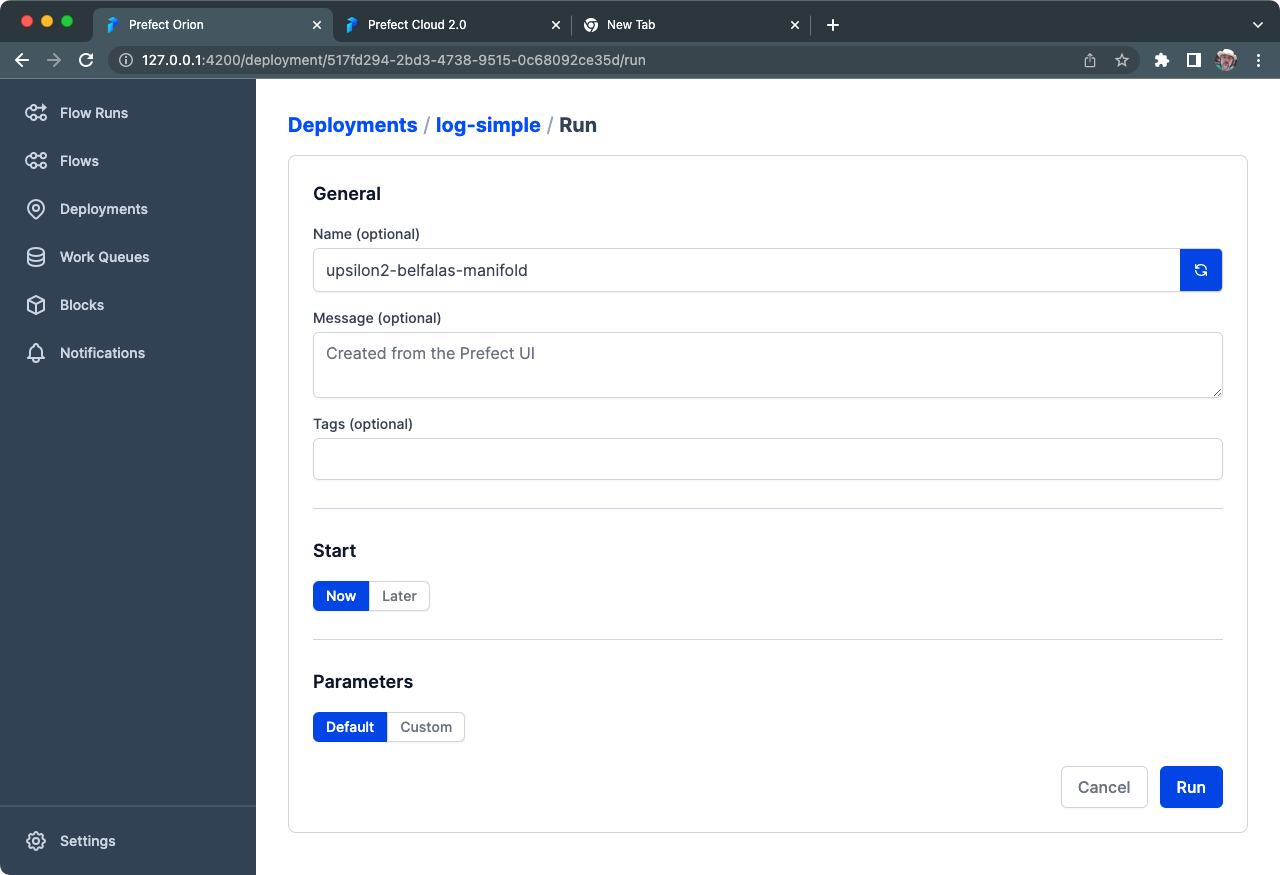
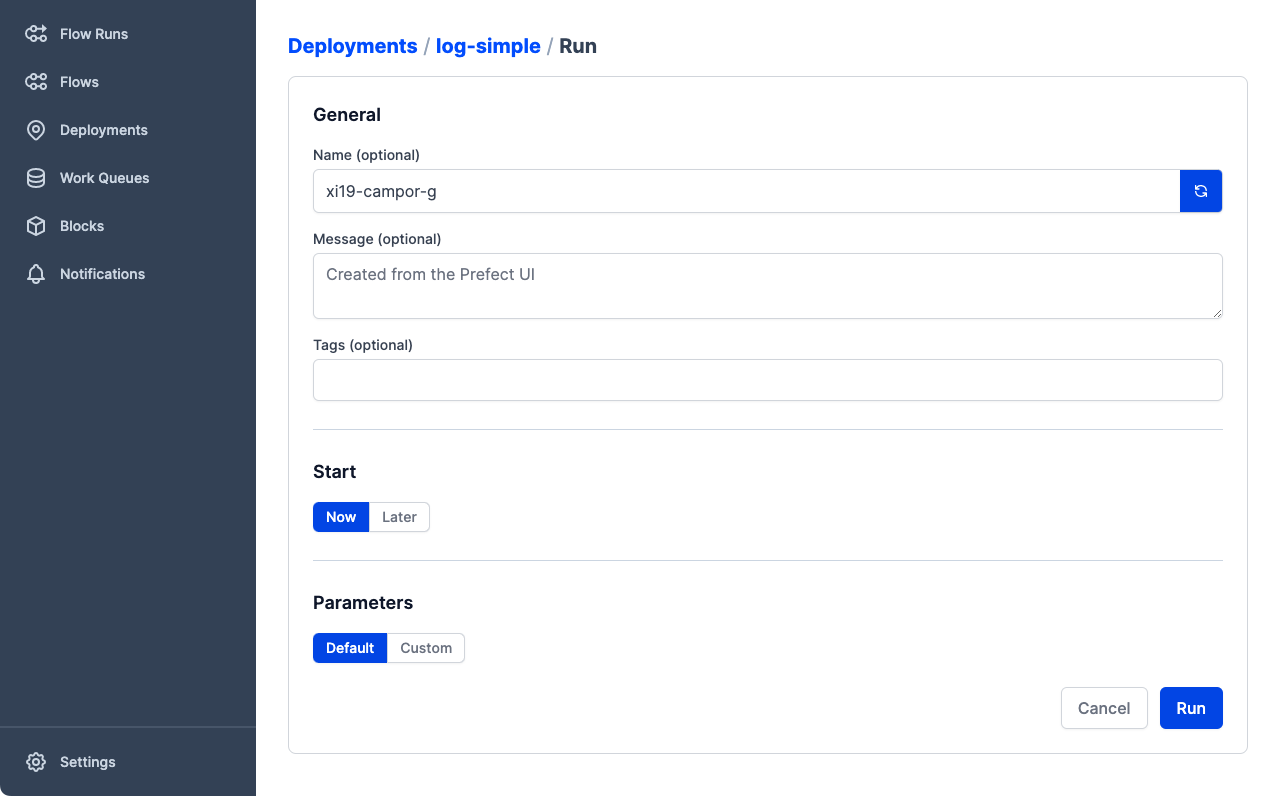
Fix agent output and screenshots in Deployment tutorial (#6715)
* Update agent output

* Fix flow run name in screenshots

diff --git a/docs/tutorials/deployments.md b/docs/tutorials/deployments.md
@@ -471,19 +471,27 @@ If you switch over to the terminal session where your agent is running, you'll s
 
 <div class="terminal">
 ```bash
-16:18:28.281 | INFO    | prefect.agent - Submitting flow run 'b0ba3195-912d-4a2f-8645-d939747655c3'
-16:18:28.340 | INFO    | prefect.infrastructure.process - Opening process 'talented-jackdaw'...
-16:18:28.349 | INFO    | prefect.agent - Completed submission of flow run 'b0ba3195-912d-4a2f-8645-d939747655c3'
-...
-16:18:30.282 | INFO    | Flow run 'talented-jackdaw' - Created task run 'log_task-99465d2b-0' for task 'log_task'
-16:18:30.283 | INFO    | Flow run 'talented-jackdaw' - Executing 'log_task-99465d2b-0' immediately...
-16:18:30.325 | DEBUG   | Task run 'log_task-99465d2b-0' - Beginning execution...
-16:18:30.325 | INFO    | Task run 'log_task-99465d2b-0' - Hello Marvin!
-16:18:30.325 | INFO    | Task run 'log_task-99465d2b-0' - Prefect Version = 2.3.1 🚀
-16:18:30.325 | DEBUG   | Task run 'log_task-99465d2b-0' - hello from another file
-16:18:30.354 | INFO    | Task run 'log_task-99465d2b-0' - Finished in state Completed()
-16:18:30.432 | INFO    | Flow run 'talented-jackdaw' - Finished in state Completed('All states completed.')
-16:18:30.654 | INFO    | prefect.infrastructure.process - Process 'talented-jackdaw' exited cleanly.
+12:34:34.000 | INFO    | prefect.agent - Submitting flow run '8476a5e7-cb8f-4fa0-911b-883ec289dccc'
+12:34:34.060 | INFO    | prefect.infrastructure.process - Opening process 'daffodil-vole'...
+12:34:34.068 | INFO    | prefect.agent - Completed submission of flow run '8476a5e7-cb8f-4fa0-911b-883ec289dccc'
+12:34:35.619 | DEBUG   | prefect.client - Connecting to API at http://127.0.0.1:4200/api/
+12:34:35.657 | DEBUG   | Flow run 'daffodil-vole' - Loading flow for deployment 'log-simple'...
+12:34:35.681 | DEBUG   | Flow run 'daffodil-vole' - Starting 'ConcurrentTaskRunner'; submitted tasks will be run concurrently...
+12:34:35.681 | DEBUG   | prefect.task_runner.concurrent - Starting task runner...
+12:34:35.688 | DEBUG   | prefect.client - Connecting to API at http://127.0.0.1:4200/api/
+12:34:35.797 | DEBUG   | Flow run 'daffodil-vole' - Executing flow 'log-flow' for flow run 'daffodil-vole'...
+12:34:35.797 | DEBUG   | Flow run 'daffodil-vole' - Beginning execution...
+12:34:35.821 | INFO    | Flow run 'daffodil-vole' - Created task run 'log_task-99465d2b-0' for task 'log_task'
+12:34:35.821 | INFO    | Flow run 'daffodil-vole' - Executing 'log_task-99465d2b-0' immediately...
+12:34:35.856 | DEBUG   | Task run 'log_task-99465d2b-0' - Beginning execution...
+12:34:35.857 | INFO    | Task run 'log_task-99465d2b-0' - Hello Marvin!
+12:34:35.857 | INFO    | Task run 'log_task-99465d2b-0' - Prefect Version = 2.3.1 🚀
+12:34:35.857 | DEBUG   | Task run 'log_task-99465d2b-0' - Hello from another file
+12:34:35.887 | INFO    | Task run 'log_task-99465d2b-0' - Finished in state Completed()
+12:34:35.914 | DEBUG   | prefect.task_runner.concurrent - Shutting down task runner...
+12:34:35.914 | INFO    | Flow run 'daffodil-vole' - Finished in state Completed('All states completed.')
+12:34:35.921 | DEBUG   | prefect.client - Connecting to API at http://127.0.0.1:4200/api/
+12:34:36.149 | INFO    | prefect.infrastructure.process - Process 'daffodil-vole' exited cleanly.
 ```
 </div>
 
@@ -540,19 +548,27 @@ As before, the flow run will be picked up by the agent, and you should be able t
 
 <div class='terminal'>
 ```bash
-16:44:42.110 | INFO    | prefect.agent - Submitting flow run 'ceb0782a-1538-4dce-a32c-831d8d1cf0f6'
-16:44:42.163 | INFO    | prefect.infrastructure.process - Opening process 'upsilon2-belfalas-manifold'...
-16:44:42.172 | INFO    | prefect.agent - Completed submission of flow run 'ceb0782a-1538-4dce-a32c-831d8d1cf0f6'
-...
-16:44:45.166 | INFO    | Flow run 'upsilon2-belfalas-manifold' - Created task run 'log_task-99465d2b-0' for task 'log_task'
-16:44:45.167 | INFO    | Flow run 'upsilon2-belfalas-manifold' - Executing 'log_task-99465d2b-0' immediately...
-16:44:45.193 | DEBUG   | Task run 'log_task-99465d2b-0' - Beginning execution...
-16:44:45.193 | INFO    | Task run 'log_task-99465d2b-0' - Hello Trillian!
-16:44:45.193 | INFO    | Task run 'log_task-99465d2b-0' - Prefect Version = 2.3.1 🚀
-16:44:45.193 | DEBUG   | Task run 'log_task-99465d2b-0' - hello from another file
-16:44:45.219 | INFO    | Task run 'log_task-99465d2b-0' - Finished in state Completed()
-16:44:45.251 | INFO    | Flow run 'upsilon2-belfalas-manifold' - Finished in state Completed('All states completed.')
-16:44:45.480 | INFO    | prefect.infrastructure.process - Process 'upsilon2-belfalas-manifold' exited cleanly.
+12:37:50.045 | INFO    | prefect.agent - Submitting flow run '9ff2a05c-2dfd-4b27-a67b-b71fea06d12f'
+12:37:50.108 | INFO    | prefect.infrastructure.process - Opening process 'xi19-campor-g'...
+12:37:50.117 | INFO    | prefect.agent - Completed submission of flow run '9ff2a05c-2dfd-4b27-a67b-b71fea06d12f'
+12:37:52.241 | DEBUG   | prefect.client - Connecting to API at http://127.0.0.1:4200/api/
+12:37:52.281 | DEBUG   | Flow run 'xi19-campor-g' - Loading flow for deployment 'log-simple'...
+12:37:52.303 | DEBUG   | Flow run 'xi19-campor-g' - Starting 'ConcurrentTaskRunner'; submitted tasks will be run concurrently...
+12:37:52.304 | DEBUG   | prefect.task_runner.concurrent - Starting task runner...
+12:37:52.312 | DEBUG   | prefect.client - Connecting to API at http://127.0.0.1:4200/api/
+12:37:52.427 | DEBUG   | Flow run 'xi19-campor-g' - Executing flow 'log-flow' for flow run 'xi19-campor-g'...
+12:37:52.427 | DEBUG   | Flow run 'xi19-campor-g' - Beginning execution...
+12:37:52.456 | INFO    | Flow run 'xi19-campor-g' - Created task run 'log_task-99465d2b-0' for task 'log_task'
+12:37:52.456 | INFO    | Flow run 'xi19-campor-g' - Executing 'log_task-99465d2b-0' immediately...
+12:37:52.485 | DEBUG   | Task run 'log_task-99465d2b-0' - Beginning execution...
+12:37:52.486 | INFO    | Task run 'log_task-99465d2b-0' - Hello Trillian!
+12:37:52.487 | INFO    | Task run 'log_task-99465d2b-0' - Prefect Version = 2.3.1 🚀
+12:37:52.487 | DEBUG   | Task run 'log_task-99465d2b-0' - Hello from another file
+12:37:52.523 | INFO    | Task run 'log_task-99465d2b-0' - Finished in state Completed()
+12:37:52.551 | DEBUG   | prefect.task_runner.concurrent - Shutting down task runner...
+12:37:52.551 | INFO    | Flow run 'xi19-campor-g' - Finished in state Completed('All states completed.')
+12:37:52.558 | DEBUG   | prefect.client - Connecting to API at http://127.0.0.1:4200/api/
+12:37:52.792 | INFO    | prefect.infrastructure.process - Process 'xi19-campor-g' exited cleanly.
 ```
 </div>
 
